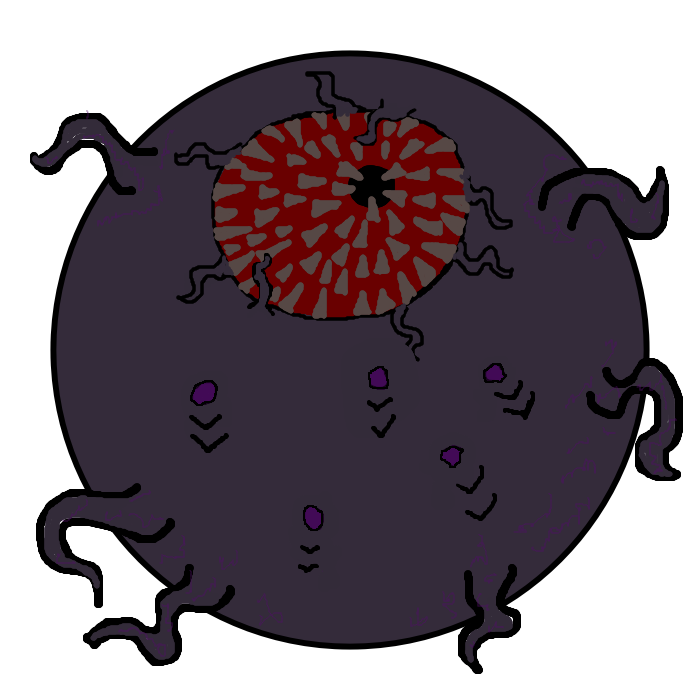
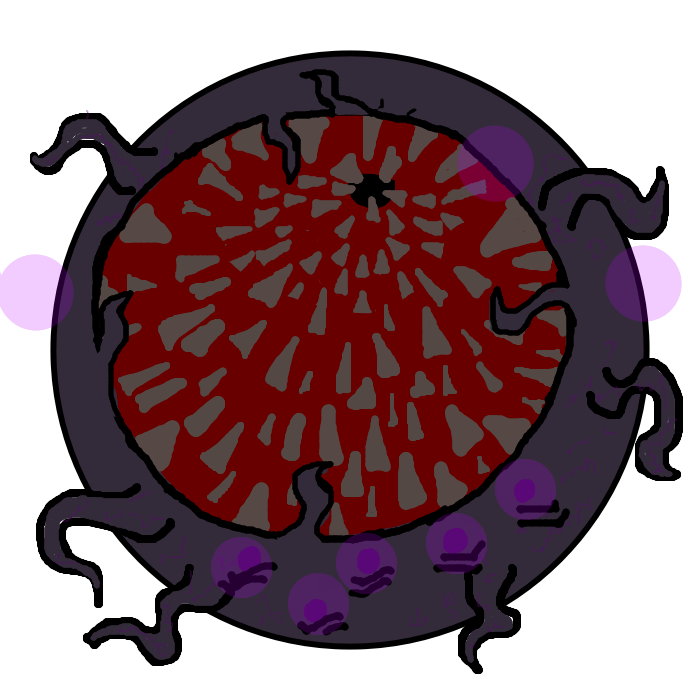
kraken fitting

diff --git a/lib/monsters/kraken.py b/lib/monsters/kraken.py
@@ -12,7 +12,7 @@ class Kraken(DefaultMonster):
     name = "kraken"
     name_nyx = "nyx"
     lives = 1099
-    lives_nyx = 800
+    lives_nyx = 1000
     #500 300 700
     # + 3 necromancer spawns
     rapidity_kraken = 4
@@ -62,7 +62,7 @@ class Kraken(DefaultMonster):
         self.next_enlargement()
 
     def _next_spell(self):
-        self.spell = randint(420, 640)
+        self.spell = randint(410, 630)
 
     def _next_spell_nyx(self):
         self.spell = randint(105, 170)
@@ -76,7 +76,7 @@ class Kraken(DefaultMonster):
             tentacles_header.spore_popping()
 
     def next_enlargement(self):
-        self.expand = randint(275, 345)
+        self.expand = randint(165, 275)
 
     def growing(self):
         for tentacles_header in self.tentacles_headers:
@@ -133,9 +133,9 @@ class Kraken(DefaultMonster):
 
     def _hitted_wizard(self, attack):
         self.injured = 12
-        if self.lives_nyx > 350 and self.lives_nyx - attack <= 350:
+        if self.lives_nyx > 390 and self.lives_nyx - attack <= 390:
             self._dark_power()
-        elif self.lives_nyx > 650 and self.lives_nyx - attack <= 650:
+        elif self.lives_nyx > 720 and self.lives_nyx - attack <= 720:
             self._dark_power()
         self.lives_nyx -= attack
         self.lives_nyx = 0 if self.lives_nyx < 0 else self.lives_nyx
@@ -220,6 +220,9 @@ class Kraken(DefaultMonster):
                 self.env.bullets.append(bullet)
                 t.start()
                 self._next_spell_nyx()
+
+    def set_on_fire(self, n):
+        pass
 
     def update(self):
         if self.injured:

diff --git a/lib/monsters/ent.py b/lib/monsters/ent.py
@@ -94,6 +94,8 @@ class   Ent(DefaultMonster):
         self.tools.display(self.env, img, self.x, self.y, fitting)
         if self.lives and self.invulnerable:
             self.tools.display(self.env, self.img_invulnerable_large[self.direction], self.x, self.y, fitting)
+        elif self.lives and self.inflamed:
+            self.tools.display(self.env, self.img_inflamed_large[self.direction], self.x, self.y, fitting)
         self._debug()
 
     def hitted(self, attack=1):
@@ -138,6 +140,7 @@ class   Ent(DefaultMonster):
                 self.spell = randint(80, 380)
         if self.injured:
             self.injured -= 1
+        self._perform_fire()
         if not self.lives and self.degeneration:
             self.degeneration -= 1
         if not self.lives or self.stoned:

diff --git a/lib/players/player.py b/lib/players/player.py
@@ -118,7 +118,7 @@ class Player:
             self.lives -= attack
             self.lives = 0 if self.lives < 0 else self.lives
             if not self.lives:
-                self.rage = False
+                self.inflamed = 0
                 self.score.kills[-1] += 1
 
     def move(self, direction, rapidity=0):
@@ -183,7 +183,7 @@ class Player:
         if self.injured:
             self.injured -= 1
         self.weapon.update()
-        if self.lives and self.inflamed:
+        if self.inflamed:
             self.inflamed -= 1
             if self.inflamed == 0:
                 if randint(0, 5):

diff --git a/lib/monsters/tentacle.py b/lib/monsters/tentacle.py
@@ -136,6 +136,9 @@ class Tentacle(DefaultMonster):
         self.tools.display(self.env, img, self.x, self.y, fitting)
         self._debug()
 
+    def set_on_fire(self, n):
+        pass
+
     def update(self):
         super().update()
         if self.lives and self.spore:

diff --git a/lib/waves/loop.py b/lib/waves/loop.py
@@ -48,7 +48,7 @@ def loop(env):
         elif env.debug:
             i = env.debug_wave - 1
         else:
-            i = 0
+            i = 6
         while i < len(_waves):
             obj = _waves[i](env)
             env.titles.append(obj.title)
